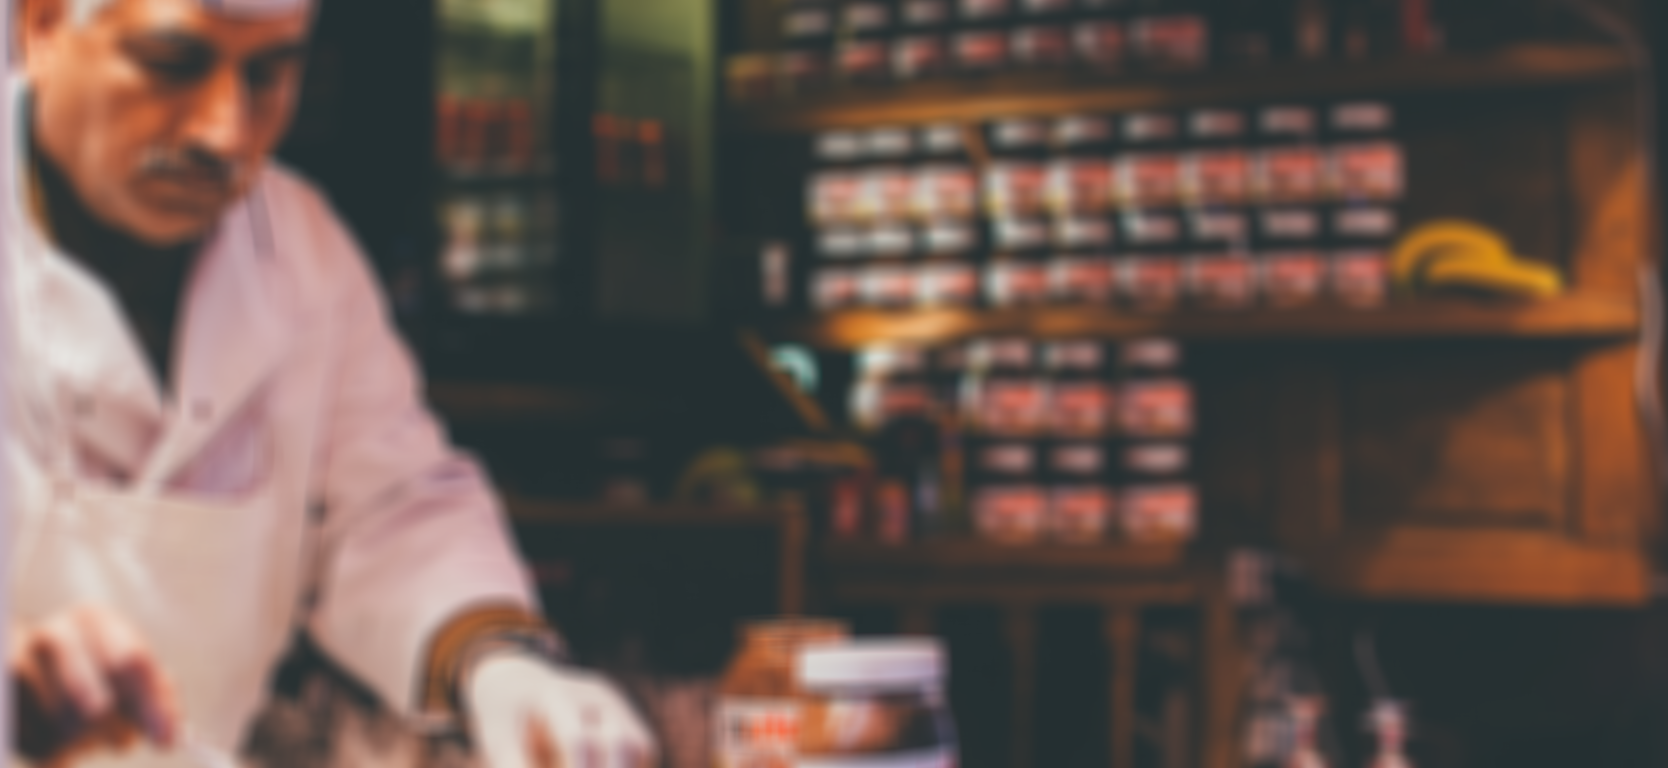
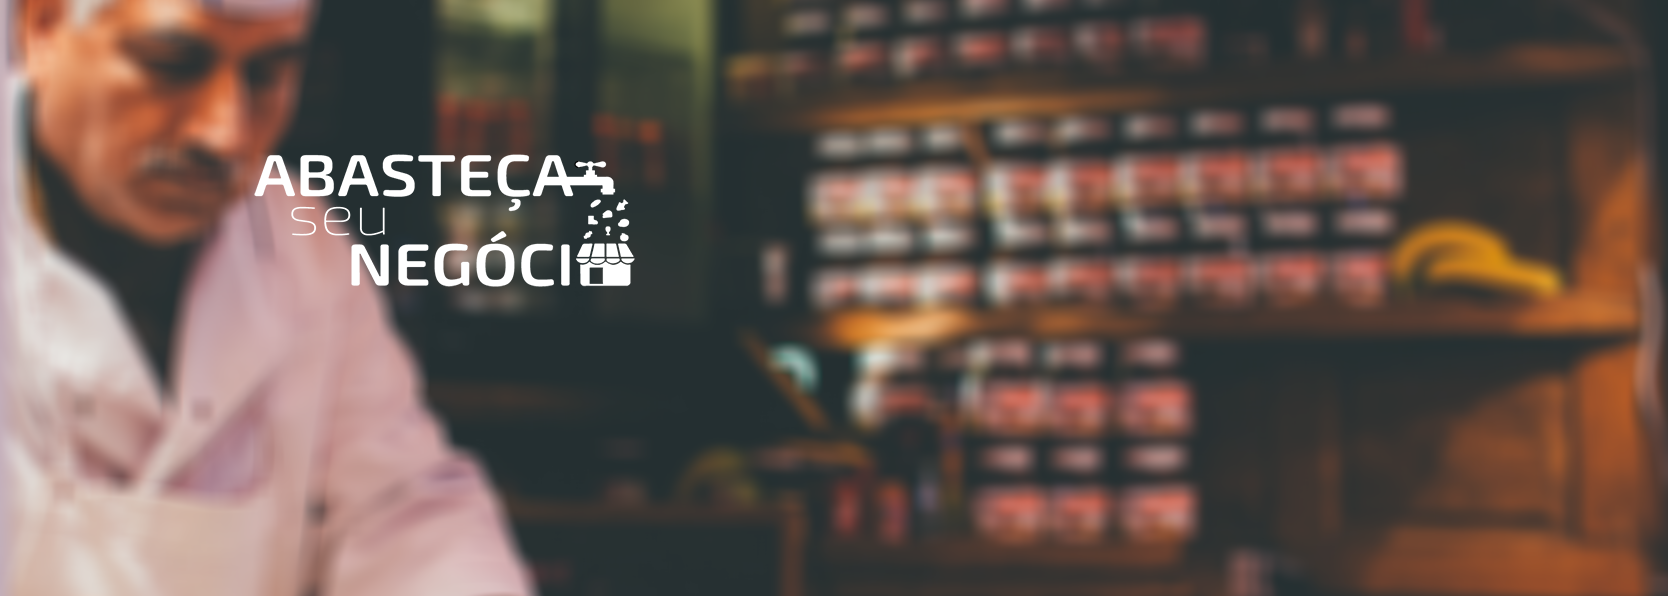
imagem

diff --git a/public/stylesheet.css b/public/stylesheet.css
@@ -45,16 +45,7 @@ nav a{
     position: absolute;
     font-family: 'Roboto', sans-serif;
 }
-#abastecaseunegocio {    
-    color: white;
-    top: 10px;
-    height: 20px;
-    position: relative;
-    left: 250px;
-    width: 400px;
-    text-shadow: 3px 3px 2px #000; 
-    font-family: 'Roboto', sans-serif;
-}
+
 #abastecaseunegocio h2 { 
     font-size: 40px;
     font-family: 'Roboto', sans-serif;

diff --git a/public/index.html b/public/index.html
@@ -30,9 +30,7 @@
           </li>
         </ul>
       </nav>
-      <div id="abastecaseunegocio">
-        <h2>ABASTECA SEU <br> NEGOCIO</h2>
-      </div>
+       </div>
       <div id="descricao">Um blog sobre negocios voltado
         <br> para o publico varejista
       </div>

diff --git a/public/ebook.html b/public/ebook.html
@@ -31,7 +31,6 @@
       </li>
     </ul>
   </nav>
-<div id="abastecaseunegocio"><h2>ABASTECA SEU <br> NEGOCIO</h2>  </div>
 <div id="descricao">Um blog sobre negocios voltado
   <br> para o publico varejista</div>
 </div>

diff --git a/public/Artigos1.html b/public/Artigos1.html
@@ -32,7 +32,6 @@
 
     </ul>
   </nav>
-<div id="abastecaseunegocio"><h2>ABASTECA SEU <br> NEGOCIO</h2>  </div>
 <div id="descricao">Um blog sobre negocios voltado
   <br> para o publico varejista</div>
 </div>
